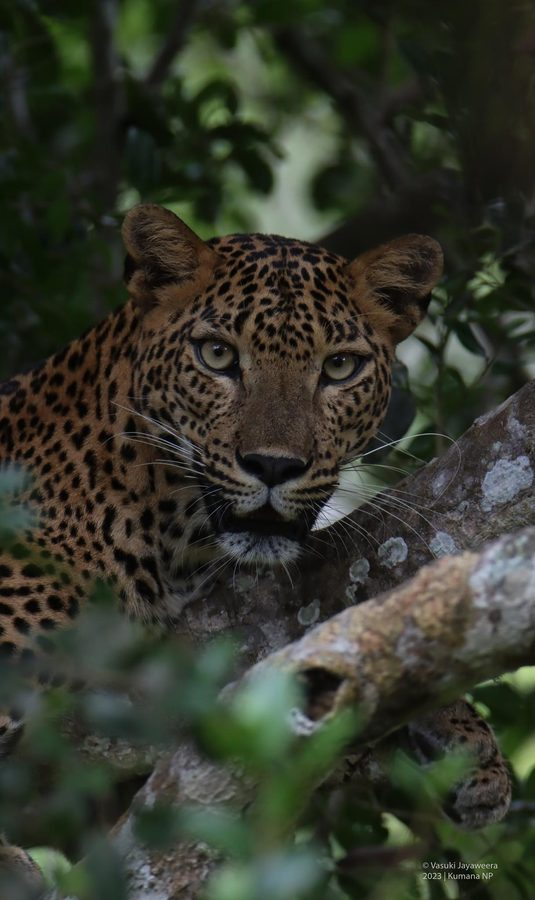
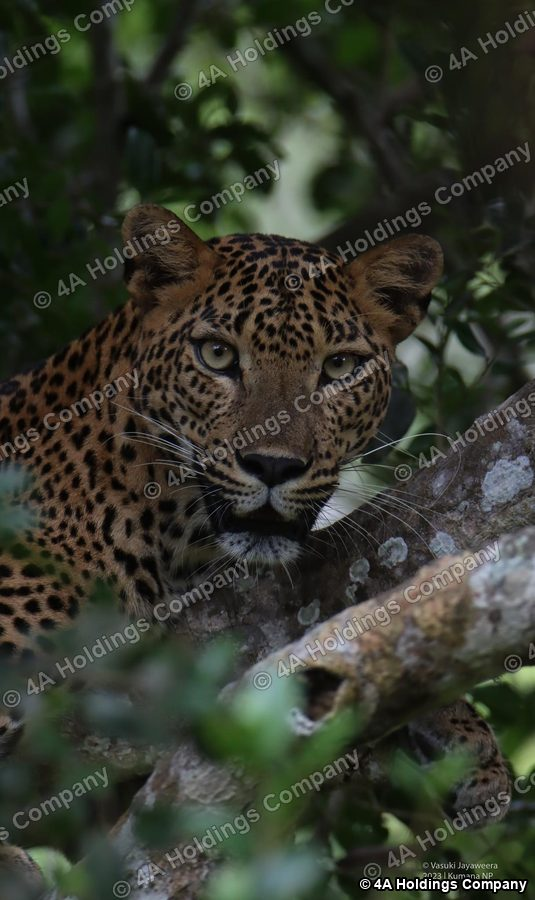
Wildlife: watermark web photos, stop publishing full-res originals

diff --git a/wildlife/assets/parks.js b/wildlife/assets/parks.js
@@ -1,6 +1,7 @@
 // Shared helpers for loading the park manifest and building photo URLs.
-// Photos live one level up, in "Wildlife Photos/<folder>/<file>", outside
-// the wildlife/ web section itself. Path segments are percent-encoded
+// Only watermarked, reduced-resolution copies are published (see
+// wildlife/assets/web/). The full-resolution originals in "Wildlife Photos/"
+// are gitignored and never served. Path segments are percent-encoded
 // individually so spaces/commas in folder and file names resolve correctly.
 
 async function loadParks() {
@@ -9,13 +10,8 @@ async function loadParks() {
   return data.parks;
 }
 
-function photoUrl(park, filename) {
-  return "../Wildlife Photos/" + encodeURIComponent(park.folder) + "/" + encodeURIComponent(filename);
-}
-
-// Resized/compressed copy used for on-page display (see
-// wildlife/scripts/generate-web-images.py). photoUrl() above still points at
-// the full-resolution original -- that's what print/photo-request links use.
+// Resized, watermarked copy used for on-page display (see
+// wildlife/scripts/generate-web-images.py).
 function webPhotoUrl(park, filename) {
   return "assets/web/" + encodeURIComponent(park.folder) + "/" + encodeURIComponent(filename);
 }
@@ -61,7 +57,7 @@ function randomCoverPhoto(parks) {
 
 // Small print note shown on every wildlife page -- see webPhotoUrl() above.
 function photoQualityNoteHtml() {
-  return `<div class="notice-banner">📷 Photos on this site are shown at reduced resolution for faster loading. Full high-resolution files are available for prints — get in touch.</div>`;
+  return `<div class="notice-banner">📷 Photos on this site are watermarked and shown at reduced resolution. Full high-resolution files are available for prints — get in touch.</div>`;
 }
 
 // Updates <meta name="description">, the canonical link, and Open

diff --git a/wildlife/gallery.html b/wildlife/gallery.html
@@ -82,9 +82,8 @@
     }
 
     gridEl.innerHTML = park.photos.map((filename) => {
-      const fullUrl = photoUrl(park, filename);
       const webUrl = webPhotoUrl(park, filename);
-      return `<a href="${fullUrl}" target="_blank" rel="noopener"><img src="${webUrl}" alt="${escapeHtml(park.name)} wildlife photo" loading="lazy"></a>`;
+      return `<img src="${webUrl}" alt="${escapeHtml(park.name)} wildlife photo" loading="lazy">`;
     }).join("");
   });
 </script>

diff --git a/wildlife/scripts/generate-web-images.py b/wildlife/scripts/generate-web-images.py
@@ -6,9 +6,9 @@ files (several MB each, some 12+ MP) -- great for prints, way more than a
 browser needs to display in a grid. This script mirrors every photo into
 "wildlife/assets/web/<park>/<file>" resized to a max of WEB_MAX_DIMENSION px
 on the long edge and re-encoded at WEB_JPEG_QUALITY, which is what the site
-actually links to (see wildlife/assets/parks.js: webPhotoUrl). The originals
-are left untouched and are still linked from each photo for anyone who wants
-a print-quality file.
+actually links to (see wildlife/assets/parks.js: webPhotoUrl), with a
+watermark stamped on. The originals are left untouched, are gitignored, and
+are never published -- prints are fulfilled from them by request.
 
 Re-run any time photos are added; already-up-to-date web copies (destination
 newer than source) are skipped, so it's safe/cheap to run repeatedly. Pass
@@ -21,7 +21,7 @@ Requires Pillow: pip install Pillow
 import sys
 from pathlib import Path
 
-from PIL import Image, ImageOps
+from PIL import Image, ImageDraw, ImageFont, ImageOps
 
 REPO_ROOT = Path(__file__).resolve().parent.parent.parent
 PHOTOS_DIR = REPO_ROOT / "Wildlife Photos"
@@ -34,6 +34,20 @@ SKIP_EXTENSIONS = {".gif", ".webp"}
 
 WEB_MAX_DIMENSION = 900  # px, long edge
 WEB_JPEG_QUALITY = 82
+
+# Watermark stamped onto every web copy: a tiled, diagonal, semi-transparent
+# line of text (hard to crop or clone out) plus a solid corner credit. The
+# originals in "Wildlife Photos/" are never modified. Changing any of these
+# means re-running with --force so existing web copies get regenerated.
+WATERMARK_TEXT = "© 4A Holdings Company"
+WATERMARK_TILE_OPACITY = 70   # 0-255, for the diagonal tiled text
+WATERMARK_CORNER_OPACITY = 200
+WATERMARK_ANGLE = 30
+WATERMARK_FONT_CANDIDATES = [
+    "C:/Windows/Fonts/arialbd.ttf",
+    "/Library/Fonts/Arial Bold.ttf",
+    "/usr/share/fonts/truetype/dejavu/DejaVuSans-Bold.ttf",
+]
 
 # Every on-page use of this "web" tier is a grid thumbnail -- park-cover
 # (minmax(280px, 1fr)) and photo-grid (minmax(240px, 1fr)) in
@@ -59,11 +73,57 @@ def human_size(num_bytes):
     return f"{size:.1f}GB"
 
 
+def load_font(size):
+    for candidate in WATERMARK_FONT_CANDIDATES:
+        try:
+            return ImageFont.truetype(candidate, size)
+        except OSError:
+            continue
+    return ImageFont.load_default(size)
+
+
+def apply_watermark(img):
+    img = img.convert("RGBA")
+    w, h = img.size
+
+    # Diagonal tiles: draw a grid of text on an oversized transparent layer,
+    # rotate it, then crop back to the photo.
+    font = load_font(max(14, w // 22))
+    probe = ImageDraw.Draw(Image.new("RGBA", (1, 1)))
+    left, top, right, bottom = probe.textbbox((0, 0), WATERMARK_TEXT, font=font)
+    tw, th = right - left, bottom - top
+    side = int((w * w + h * h) ** 0.5) + 2 * tw
+    layer = Image.new("RGBA", (side, side), (0, 0, 0, 0))
+    draw = ImageDraw.Draw(layer)
+    step_x, step_y = int(tw * 1.6), int(th * 5)
+    for row, y in enumerate(range(0, side, step_y)):
+        offset = (row % 2) * step_x // 2
+        for x in range(-step_x, side, step_x):
+            draw.text((x + offset, y), WATERMARK_TEXT, font=font,
+                      fill=(255, 255, 255, WATERMARK_TILE_OPACITY),
+                      stroke_width=1, stroke_fill=(0, 0, 0, WATERMARK_TILE_OPACITY))
+    layer = layer.rotate(WATERMARK_ANGLE, resample=Image.BICUBIC)
+    cx, cy = (side - w) // 2, (side - h) // 2
+    img = Image.alpha_composite(img, layer.crop((cx, cy, cx + w, cy + h)))
+
+    # Solid-ish corner credit.
+    corner_font = load_font(max(12, w // 38))
+    draw = ImageDraw.Draw(img)
+    l, t, r, b = draw.textbbox((0, 0), WATERMARK_TEXT, font=corner_font)
+    margin = max(8, w // 70)
+    pos = (w - (r - l) - margin - l, h - (b - t) - margin - t)
+    draw.text(pos, WATERMARK_TEXT, font=corner_font,
+              fill=(255, 255, 255, WATERMARK_CORNER_OPACITY),
+              stroke_width=2, stroke_fill=(0, 0, 0, WATERMARK_CORNER_OPACITY))
+    return img.convert("RGB")
+
+
 def resize_one(src_path, dest_path):
     with Image.open(src_path) as img:
         # Bake in the EXIF rotation now, since we're stripping metadata below.
         img = ImageOps.exif_transpose(img)
         img.thumbnail((WEB_MAX_DIMENSION, WEB_MAX_DIMENSION), Image.LANCZOS)
+        img = apply_watermark(img)
 
         dest_path.parent.mkdir(parents=True, exist_ok=True)
         if dest_path.suffix.lower() == ".png":
@@ -99,7 +159,7 @@ def main():
                 continue
 
             if ext in SKIP_EXTENSIONS:
-                # Can't safely shrink these -- keep the site working by
+                # Can't safely shrink or watermark these -- keep the site working by
                 # mirroring the original as-is rather than dropping the photo.
                 dest_path.parent.mkdir(parents=True, exist_ok=True)
                 dest_path.write_bytes(src_path.read_bytes())
